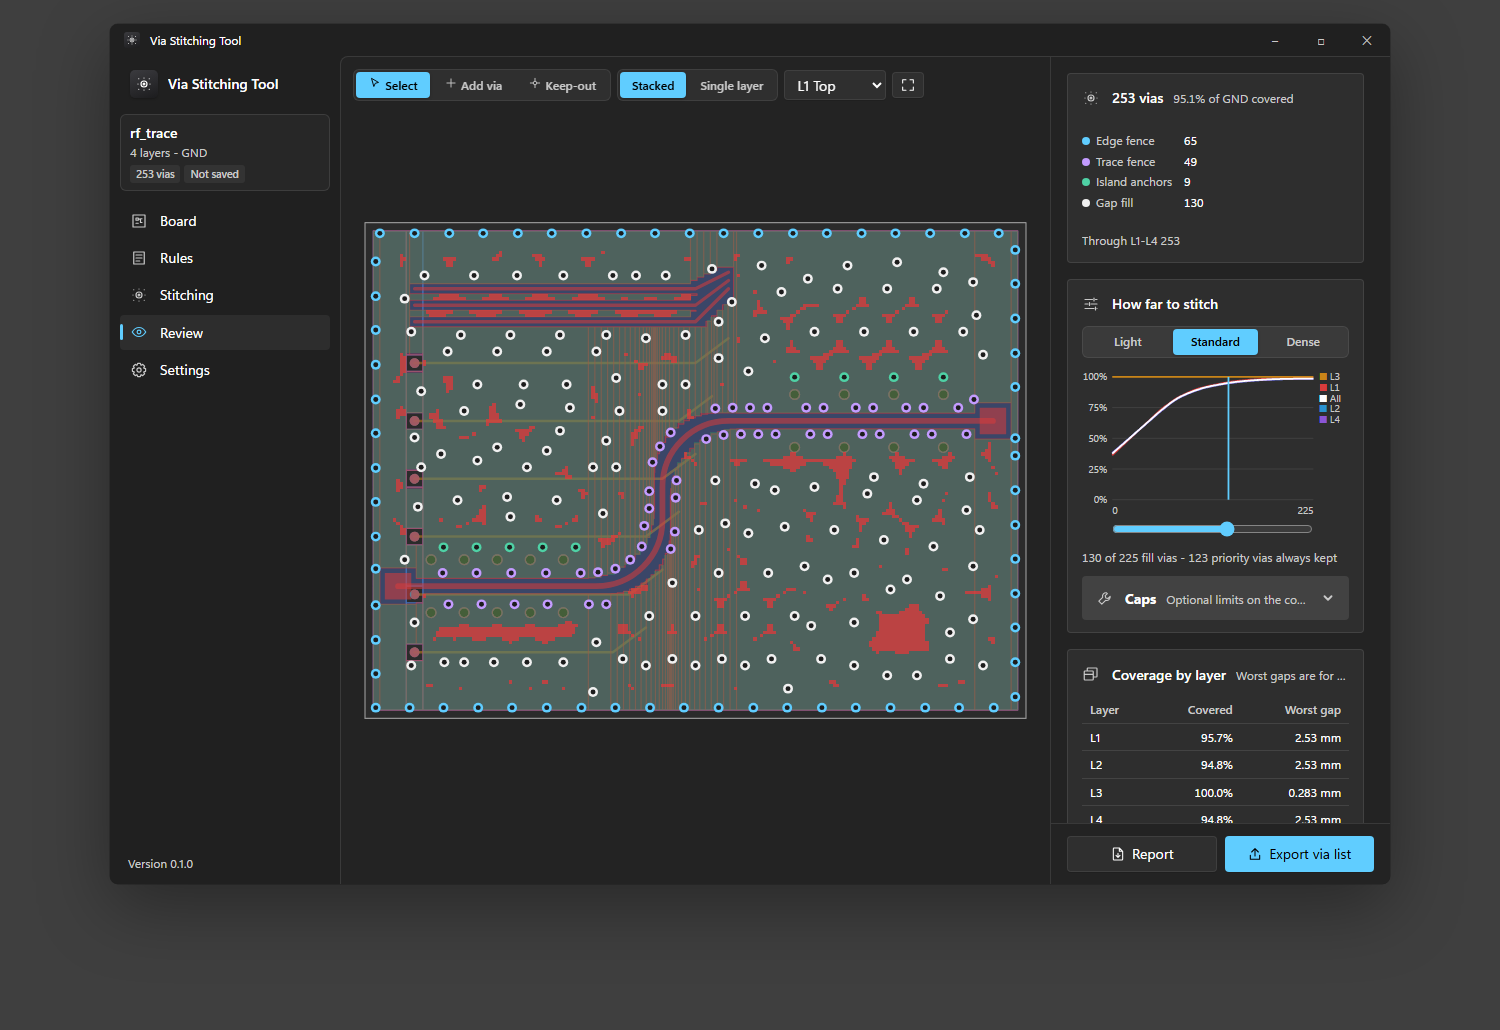
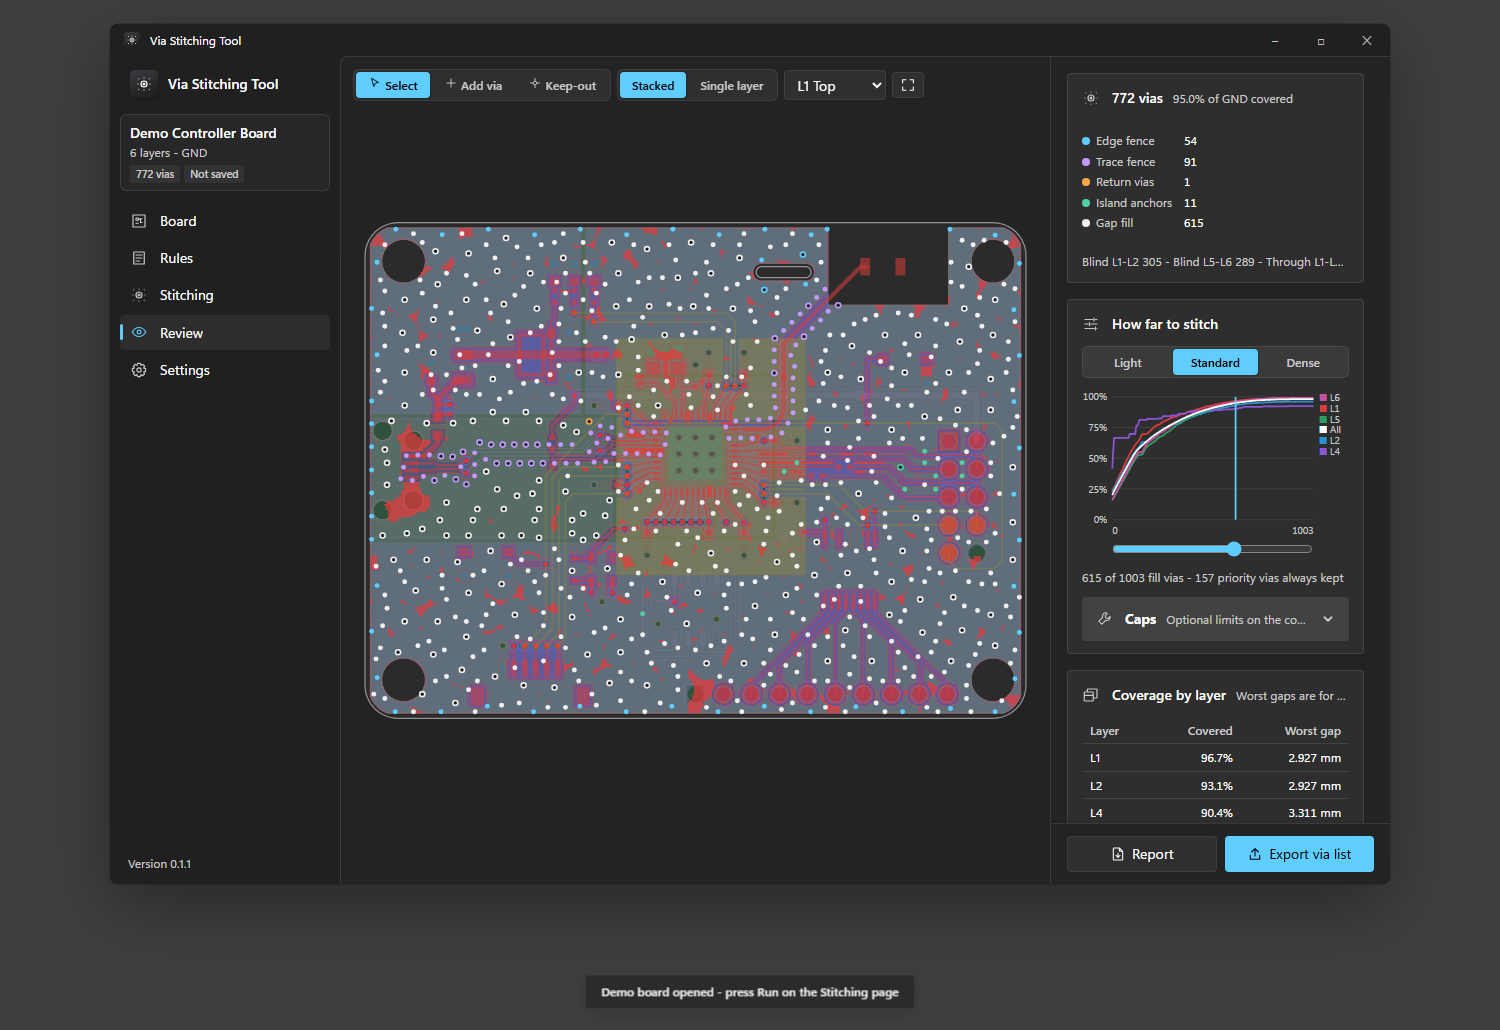
README for 0.1.1

diff --git a/README.md b/README.md
@@ -16,7 +16,7 @@ Windows 10 and 11 - 64-bit
   </picture>
 </a>
 
-<sub>Version 0.1.0 (preview) - <a href="https://github.com/branggs/Via-Stitching-Tool-Release/releases">All versions</a></sub>
+<sub>Version 0.1.1 (preview) - <a href="https://github.com/branggs/Via-Stitching-Tool-Release/releases">All versions</a></sub>
 
 <br><br>
 
@@ -29,6 +29,7 @@ Windows 10 and 11 - 64-bit
 
 ## What you can do
 
+- Try it straight away on the built-in demo: a 6-layer controller board with power pours, USB and RF traces and blind vias
 - Export the open PCB from Altium with the Export for Stitching script, then open the board file here
 - Place vias off-grid wherever they fit: edge fences, fences along picked nets, return vias, island anchors and gap fill, with through and blind vias
 - Pick how far to stitch on a coverage curve: Light, Standard or Dense, or drag the cut-off
@@ -52,9 +53,13 @@ Altium DRC stays the final check: run it after importing the vias.
 
 This preview does not update itself yet: install a newer version over it to update.
 
-## What's new in 0.1.0
+## What's new in 0.1.1
 
 NEW
-- First preview: board viewer, rules and .RUL import, stitching setup, review with coverage curve, manual edits, export, projects and presets
+- A built-in demo board: choose **Try the demo board** on the start screen, then **Run** on the Stitching page
+
+IMPROVED
+- Light and Standard density now reach their coverage targets on larger boards
+- The coverage heat map counts the board's existing GND vias
 
 [All releases and notes](https://github.com/branggs/Via-Stitching-Tool-Release/releases)
